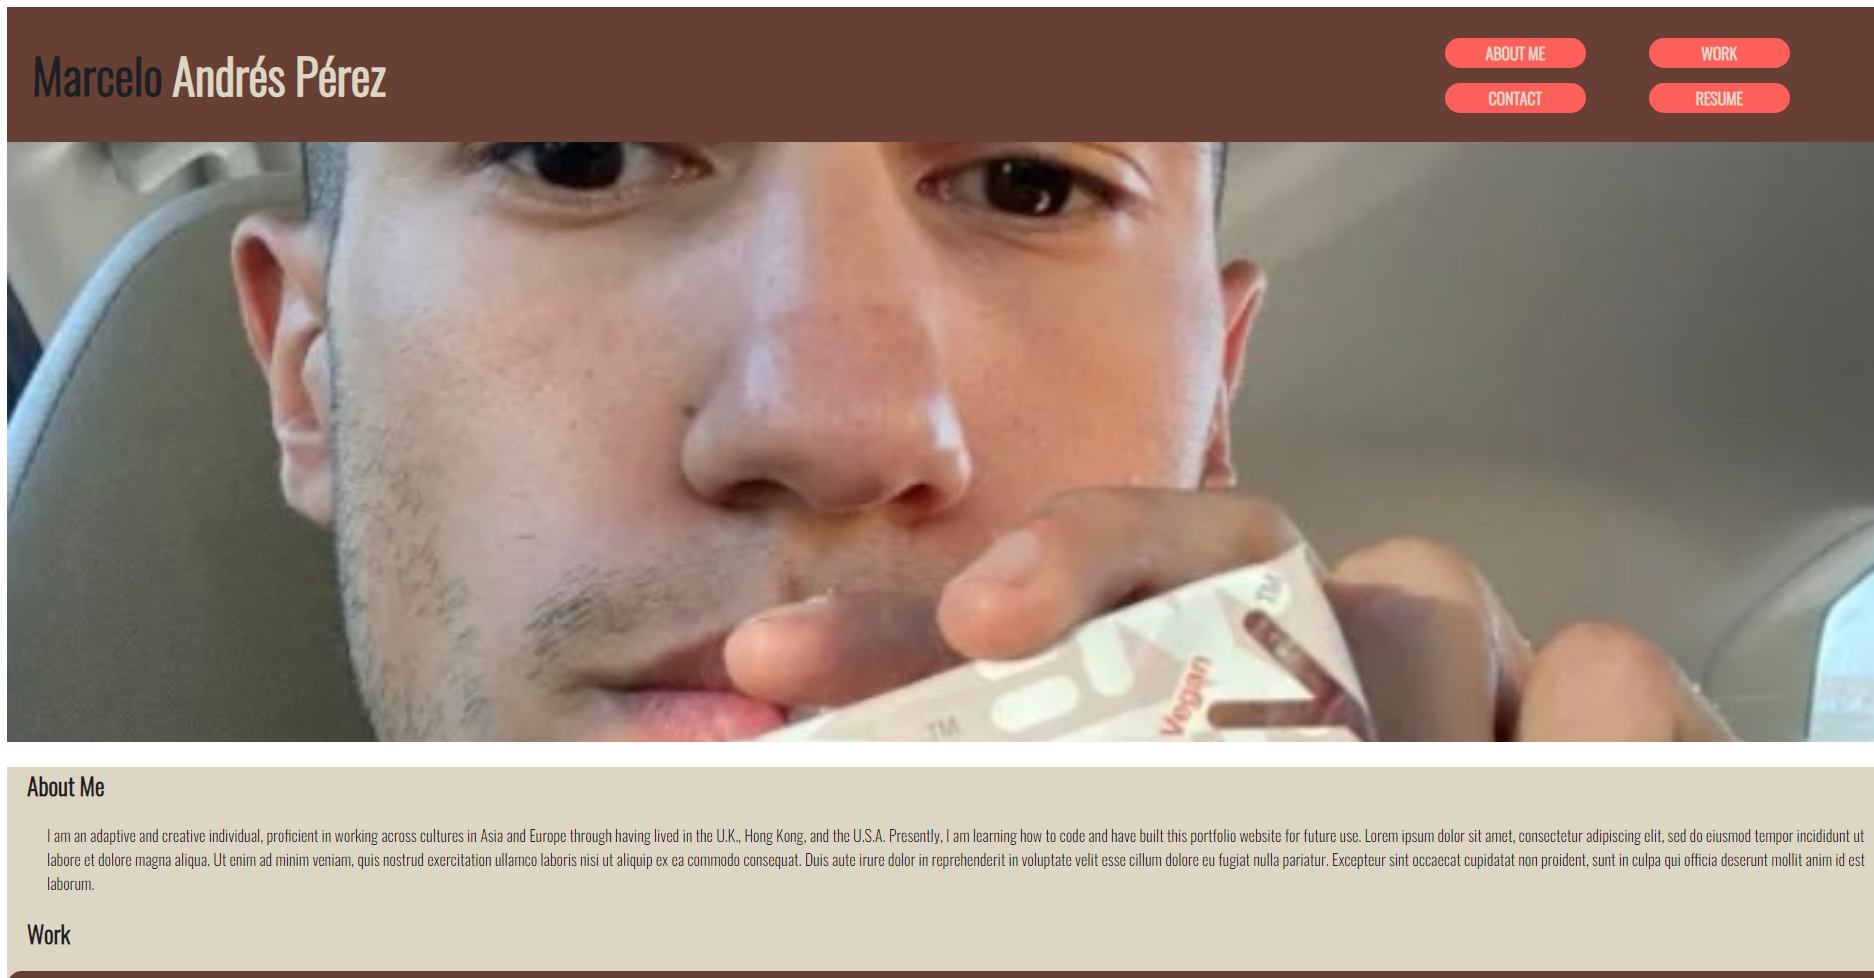
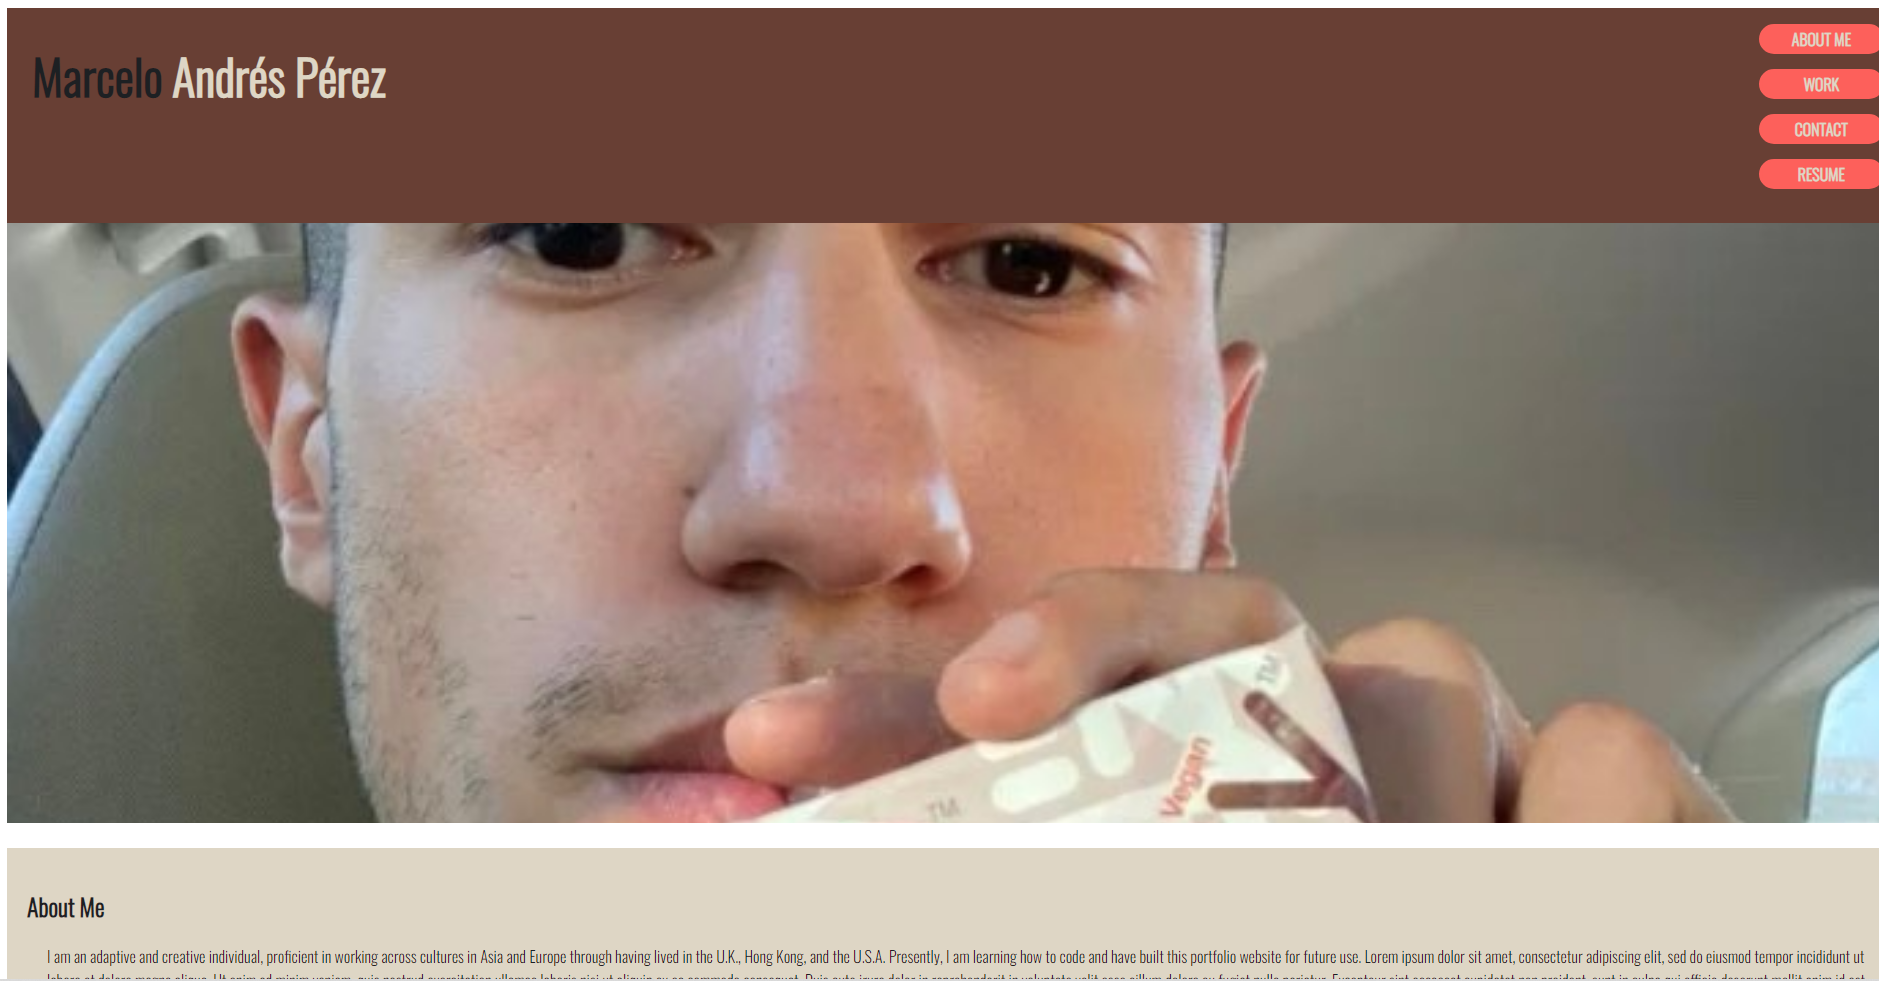
Added a fullscreen screenshot for the README

diff --git a/Assets/style.css b/Assets/style.css
@@ -199,6 +199,6 @@ a:visited {
     }
     /* I used the same fix for the images as at 768px, however now the nav bar is not positioned correctly. */
     .header nav {
-        margin-left: -20px;
+        /* margin-left: -20px; */
     }
 }

diff --git a/README.md b/README.md
@@ -18,7 +18,7 @@ https://mandresp.github.io/portfolio-website/
 
 ## Screenshot of Website
 
-![Website Screenshot](./Develop/assets/images/PortfolioWebsite%20Screenshot.png)
+![Website Screenshot](./Develop/assets/images/Fullscreen Screenshot.png)
 
 ## Credits
 
